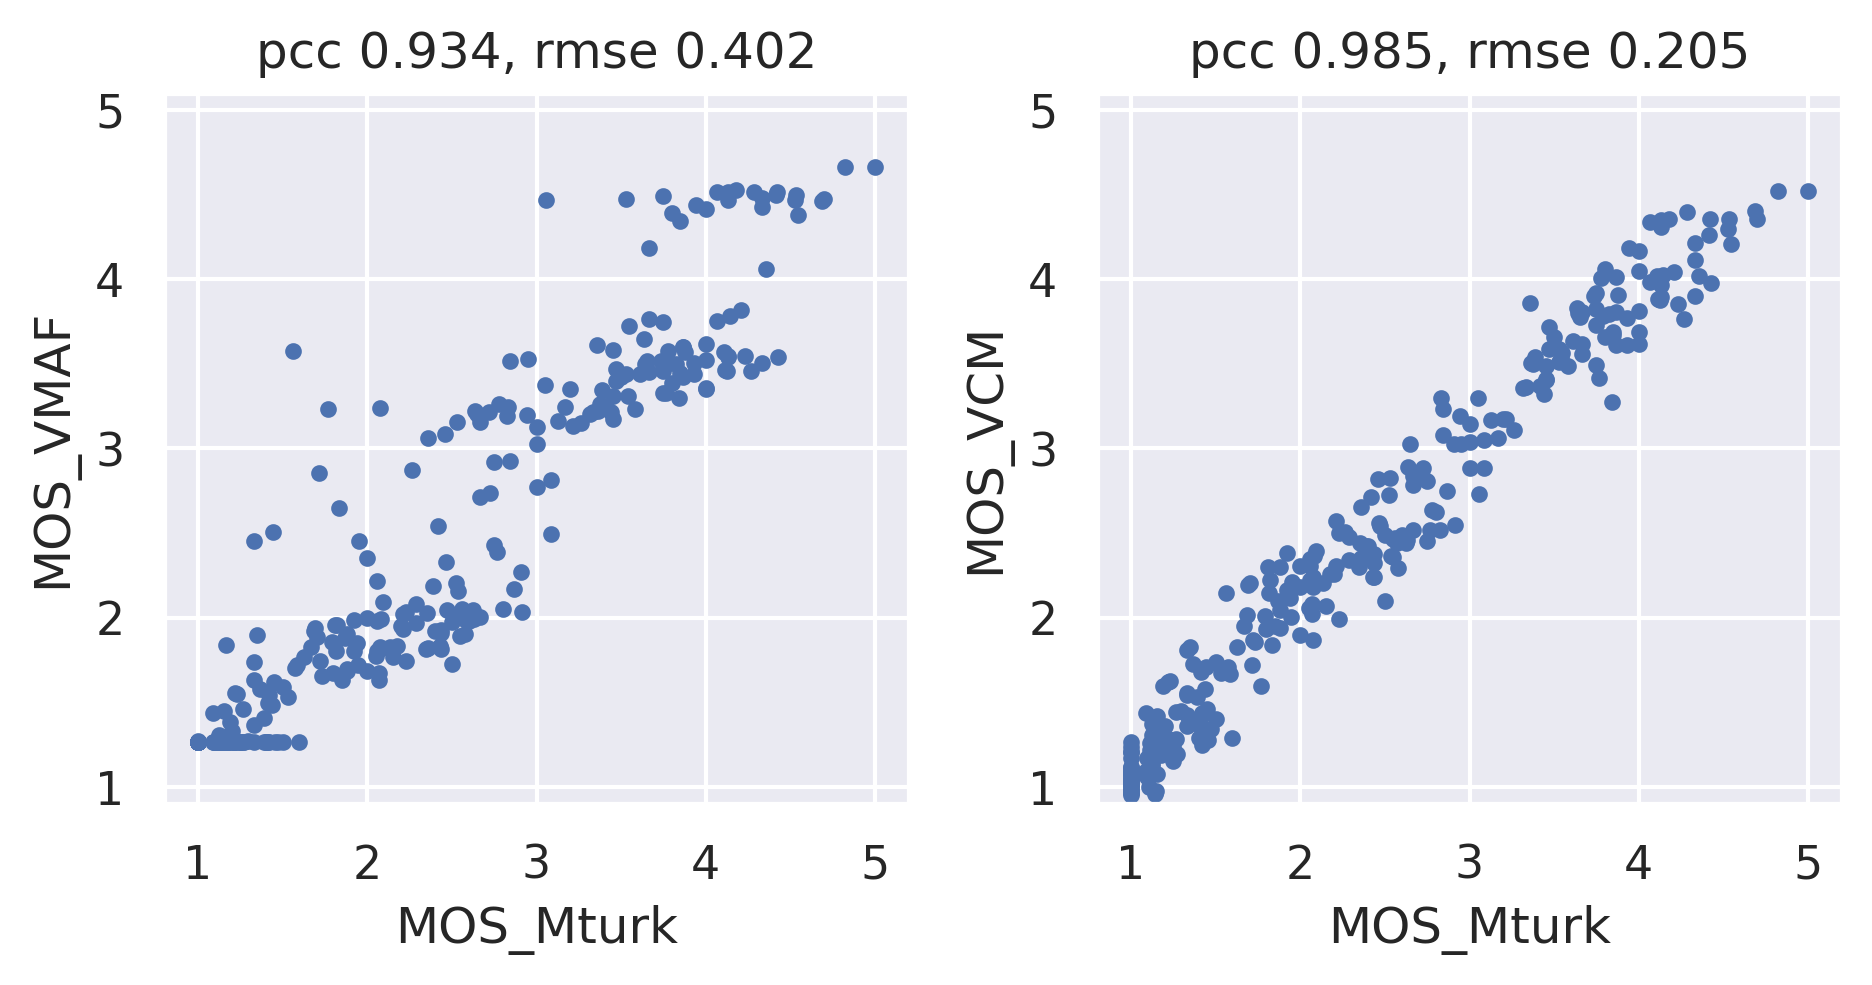
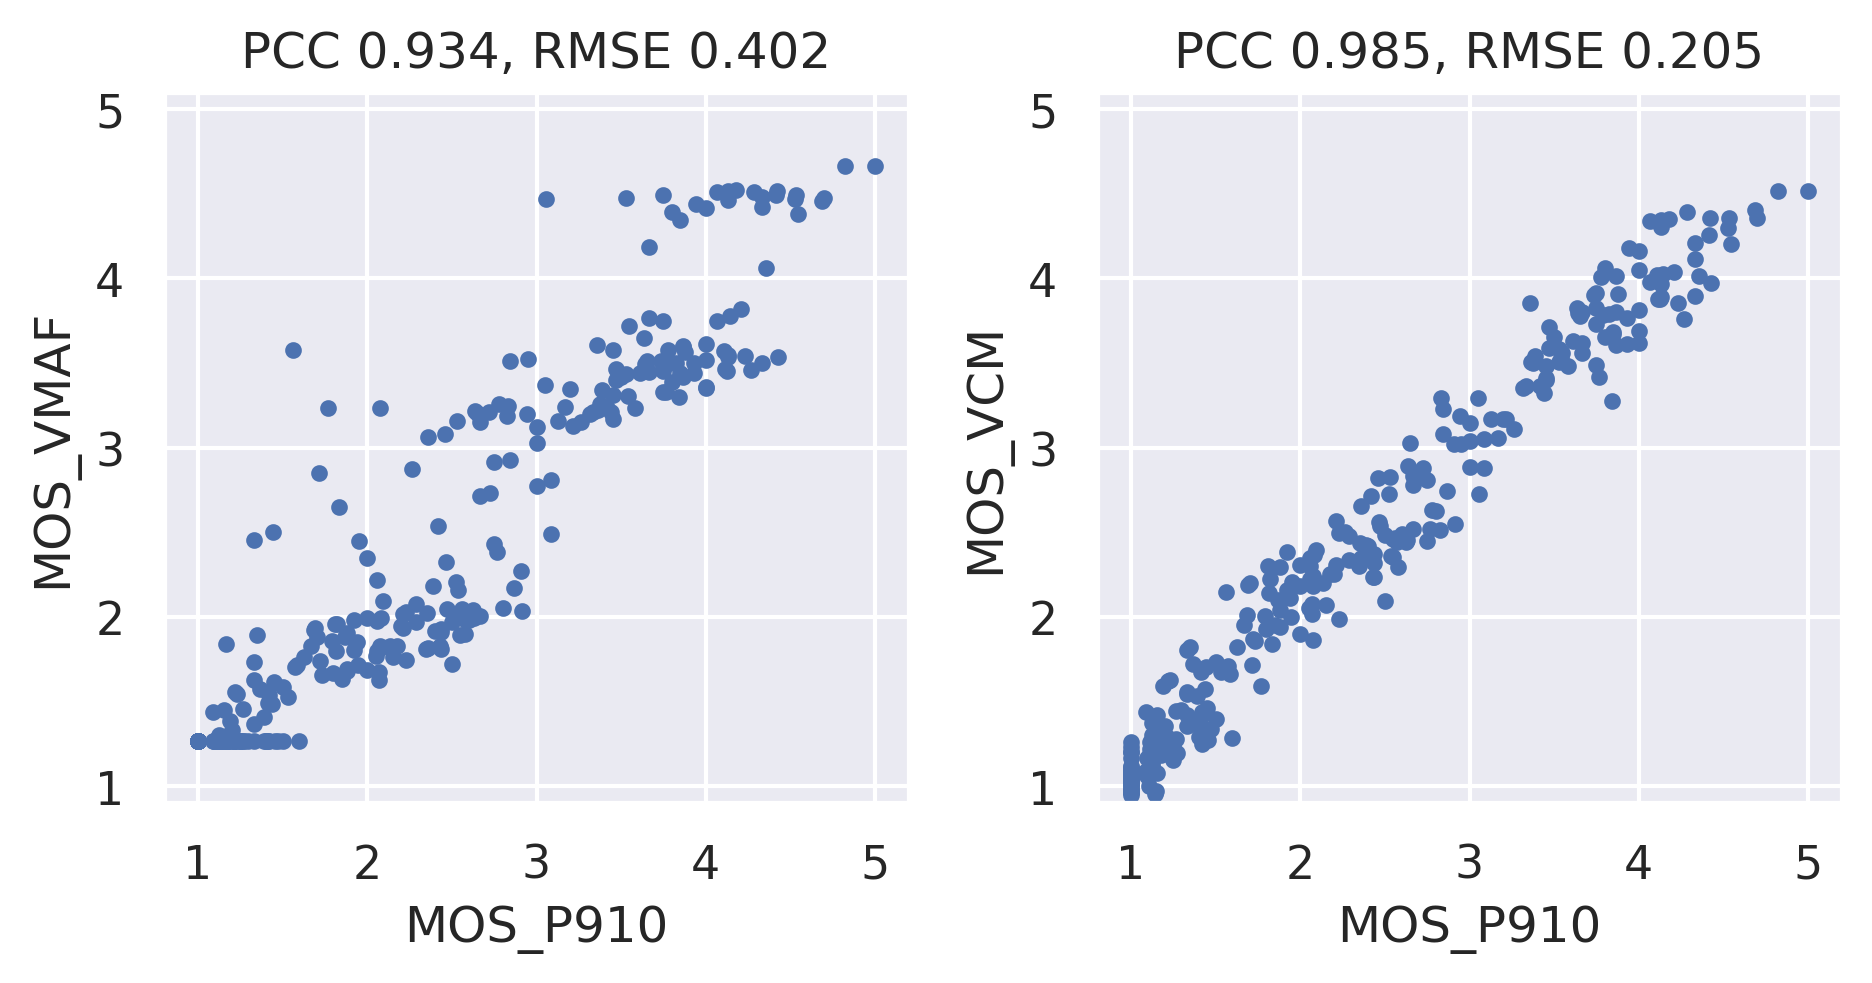
update

diff --git a/vcm/evaluation_and_plotting.py b/vcm/evaluation_and_plotting.py
@@ -42,16 +42,16 @@ def evaluate_and_plot(csv_file, video_idxs, data_dir, checkpoint, features, hidd
     plt.figure()
     plt.subplot(1,2,2)
     plt.plot(mos_sub, mos_pred_vcm, '.')
-    plt.xlabel('MOS_Mturk')
+    plt.xlabel('MOS_P910')
     plt.ylabel('MOS_VCM')
     plt.ylim(0.9,5.1)
-    plt.title(f"pcc {pcc_vcm:0.3f}, rmse {rmse_vcm:0.3f}")
+    plt.title(f"PCC {pcc_vcm:0.3f}, RMSE {rmse_vcm:0.3f}")
     plt.gca().set_aspect('equal')
     plt.subplot(1,2,1)
     plt.plot(mos_sub, mos_pred_vmaf, '.')
-    plt.xlabel('MOS_Mturk')
+    plt.xlabel('MOS_P910')
     plt.ylabel('MOS_VMAF')
-    plt.title(f"pcc {pcc_vmaf:0.3f}, rmse {rmse_vmaf:0.3f}")
+    plt.title(f"PCC {pcc_vmaf:0.3f}, RMSE {rmse_vmaf:0.3f}")
     plt.ylim(0.9,5.1)
     plt.gca().set_aspect('equal')
     plt.tight_layout()

diff --git a/README.md b/README.md
@@ -5,7 +5,7 @@ In contrast to other state-of-the-art video mos models it is able to take tempor
 We further provide a dataset with live Microsoft Teams video recordings and crowdsourced subjective quality ratings using [P.910 Crowd](https://github.com/microsoft/P.910). 
 The prediction is performed with the following steps.
 
- 1. Time-alignment of degraded video to reference via QR-code marker detection
+ 1. Time-alignment of reference video via QR-code marker detection
  2. VMAF Computation
  3. Frame freeze feature computation based on time-alignment indices
  4. Predict MOS with Video Call MOS LSTM, using VMAF and frame freeze features as input
@@ -14,7 +14,7 @@ The prediction is performed with the following steps.
 In comparison to VMAF, the proposed VCM model performs better on videos with temporal distortions. The following figure shows how VMAF overestimates the quality for multiple samples in the validation dataset.
 <br><br><img src="imgs/results.png" width="500" >
 
-The following example shows the per-frame predictions for a video that is impaired by a single freeze of around 1 second. According to the crowdsourced ratings, the ground truth video quality MOS is 2.95. Because VMAF does not take the freeze into acount, it overestimates the quality with a score of 3.52. In contrast, the proposed VCM model lowers the quality predictions during the frozen frames, such that the overall MOS prediction results to a score very close to the ground truth.
+The following example shows the per-frame predictions for a video that is impaired by a single freeze of around 1 second. According to the crowdsourced ratings, the ground truth video quality MOS is 2.95. Because VMAF does not take the freeze into acount, it overestimates the quality with a score of 3.52. In contrast, the proposed VCM model reduces the predictions during frozen frames, resulting in an overall MOS score close to the ground truth.
 <br><br><img src="imgs/example_1.png" width="500" >
 
 The next figure shows a similar effect but instead with multiple shorter frame freezes.
